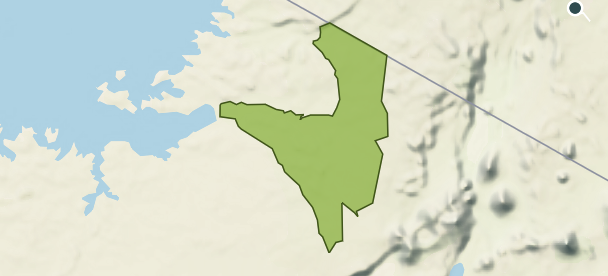
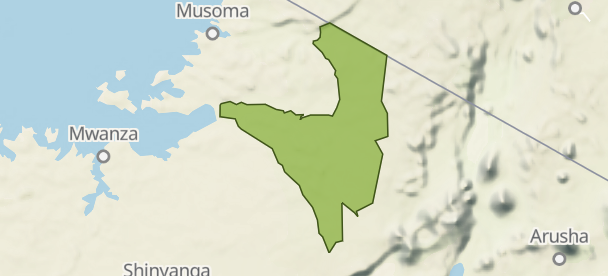
feat: label nearby towns on thumbnails
Show towns by population rank at thumbnail zooms and read them from
tiles one zoom deeper than the view, as low-zoom tiles hold only the
largest cities. Draw capital dots with their labels so no dot is left
without a name at the image edge.

diff --git a/public/maps/README.md b/public/maps/README.md
@@ -95,7 +95,11 @@ Standalone page to compare candidate basemaps for replacing Mapbox on Protected 
    npm run thumbs -- --pmtiles https://build.protomaps.com/<YYYYMMDD>.pmtiles 873 2575 2628 220201
    ```
    - Output: `public/maps/thumbs/<site_id>.png` (608×276, @2x of 304×138).
-6. **Marine outlines are lighter than PP's today (`#d4e6f4`)** so they stand out over dark bathymetry.
+6. **Nearby towns are labelled, as on the Mapbox thumbnails.**
+   - The basemap hides towns before zoom 6; thumbnails (zoom ~4–7) show them by population rank.
+   - The server renderer reads towns from tiles one zoom deeper than the view: low-zoom tiles hold only the largest cities.
+   - The browser render in the playground skips that step, so it shows fewer towns than the server PNG.
+7. **Marine outlines are lighter than PP's today (`#d4e6f4`)** so they stand out over dark bathymetry.
    - Internal lines of multi-part sites (e.g. Great Barrier Reef zones) are kept; outer-edge-only is tracked in an issue.
 
 ### Thumbnail service (drop-in for Mapbox Static Images)
